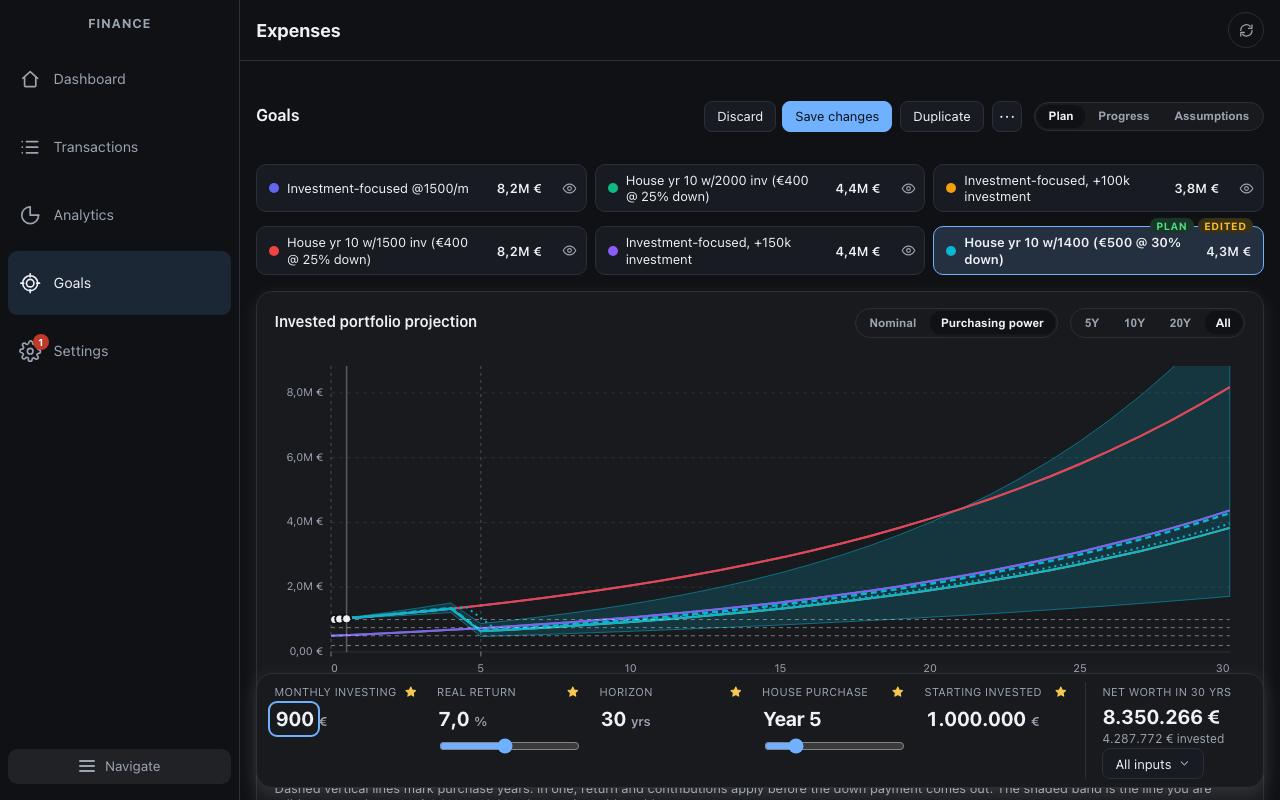
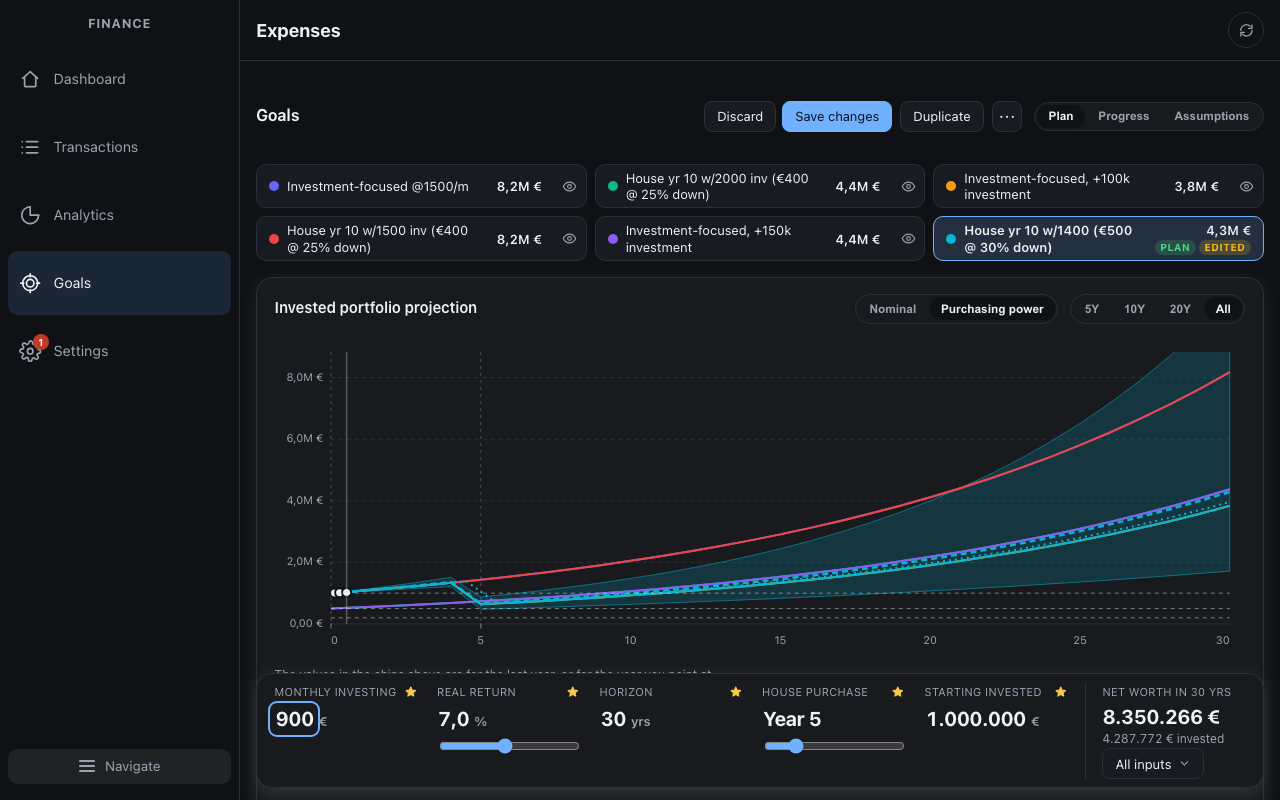
Update the Goals browser script, docs and screenshots for the chip tags and breakdown slot
The script now checks the tags inside the chip and the breakdown under the chart. Screenshots are retaken with six long names, and a purchase-year pair is added.

diff --git a/docs/TESTING.md b/docs/TESTING.md
@@ -55,7 +55,7 @@ jsdom lays nothing out, so the unit tests for the Goals phone navigation and the
 | --- | --- |
 | `npm run verify:goals-tabs` | The secondary chart picker on Goals' Chart view does not overlap at 390px. Serves on port 5173. |
 | `npm run verify:goals-nav` | The Goals phone navigation at 375x812 and 320x568, plus landscape and large text: the view row sticks under the header, the hero chart is above the bottom bar on first load, each Scenarios chip lands its section under the pinned stack, the marked chip follows the scroll and a tapped chip stays marked until the viewer scrolls, each view comes back where it was left (also after a link), the four labels are shown whole, Scenarios is not pinned on a short screen, and no control that Tab or Shift+Tab reaches is covered by the header, the row, the stack or the bottom bar. |
-| `npm run verify:goals-desktop` | The wide Goals Plan page from 1024px to 1920px, and with `ENGINES=chromium,webkit` in Safari's engine too: nothing in it scrolls on its own, it does not scroll sideways, the chart is wider than it was beside the side panel, every milestone column of the years-to-milestone table is in sight, the five levers and the result are on one row from 1250px, the bar is on screen on first load with the chart and its legend above it (held to the bottom edge from 1200px wide and 800px tall, and left in the page on a shorter screen so it cannot cover them), it sticks under the header with 3px of air once the page has scrolled past it and nothing is drawn over it, and Tab between its controls, or pressing a star, does not scroll the page, and the inputs panel opens clear of it by mouse or keyboard (and below 1200px wide goes by with the page instead), hovering the chart shows the values for a year, the scenario menu opens inside the window with focus in it and Escape gives focus back to its button, the inputs panel folds open in columns and back to the page's length, the stars take an input out of the bar and put another in (the bar is then full and the other stars are held back), have a tooltip, a 24px click area and sit on the middle of their label's first line, and Reset puts the five back without moving the columns under it, typing over a lever marks the scenario as edited and Discard undoes it, a slider moves the net worth, a saved line hidden from the legend while its scenario is edited is not left there dimmed after Discard, a session that goes read-only in the middle of an edit keeps the edit and shows the note under the scenario tabs on a line of its own, without an Edited mark and without the discard question offering to save, and no control that Tab reaches is under the bar or the header (columns are read one after the other). It also checks 899px has the phone layout and 900px the wide page, the light theme and 150% text, that the chart leaves vertical swipes to the page on a touch screen, and that Progress and Assumptions keep their narrower page. At 1200, 1280 and 1440 by 800 (and 1366x768, where the bar is left in the page) a click on a lever's figure or its unit, typing, filling, the sliders, Tab and a star pressed from the keyboard leave the page where it is, a 15-character net worth leaves the held bar one row high, and the legend stays clear of the bar throughout (`ONLY=lever-focus` runs just that group). The toast after a star takes an input out of the bar (and the other messages on the page) is in the side rail, covering neither the legend, the bar and its controls nor the rail's own links and menu button, at 1024x768, 1200x800, 1280x800, 1440x900, 1440x1024 and on three touch tablets (1032x1376, 1133x744, 1366x1024), its Undo is what a press at its centre reaches, it stays in the middle under 1024px, and on a phone it is above the bottom bar (`ONLY=toast` runs just that group). It also reads the years-to-milestone table (the editing draft is set low so cells are years away): in a card with no sideways scroll, the tint deeper the further with 4.5:1 text on it in both themes, hatching and the tick, a sentence per cell under the table that does not move the card, the row and column marked, calendar year, vs plan, the arrow keys, Home and End, forced colours (Chromium) and a phone at 375px and 320px. It also reads the timeline view of that card from 900px to 1440px: the switch is only on the wide page, the timeline fits its card, every dot is in its row, no label runs into another or into a badge, Tab goes row by row, following a milestone marks its dots and the dashed line goes through their centres, and the table comes back as it was. It also checks why Save is off for a scenario with no name (`ONLY=s2`): the button is `aria-disabled` and looks as off as a disabled one, with nothing written in the page for it; on a phone at 375x812 and 320x568 (touch) a tap on the pinned Save, the scenario card's Save changes and its Save as new shows one toast inside the screen, however many taps, and the pinned stack keeps its height at every moment from clearing the name to the last tap; on the wide page with a mouse the scenario row, its Save and Discard group and the page keep their boxes when the name is cleared, the button has the words as its tooltip and does not lift or press under the pointer, and a click, Enter and Space on it show the toast, as a click on the draft's Save scenario does; with a name typed Save saves. A native tooltip is drawn by the browser, not the page, so a headless run reads the `title` and cannot see it. Both are then read again with start dates that differ, which the demo never has (`ONLY=w2`, `ONLY=x2`): three milestones are named, one of them long, and the editing path is given a plan start date over a year back through the calendar, which must show its cells as years from today (its own step less the years it has run, rounded up), a figure under every cell of every row but the plan's (the difference of the cells shown, the plan from today included, the plan's own row no taller than without "vs plan"), the same width for every milestone column and every box at 1440, 1280 and 1024 wide, nothing overflowing on a phone at 375px and 320px, and on the timeline the axis starting at "now" with every line starting there and each dot where its cell says. It also presses a grid of points inside every control on the Plan page with the inputs panel open, with the bar full and with room in it, on three touch tablets (1032x1376, 1133x744, 1366x1024) and with a mouse (1032x1376, 1133x744): none may land on a star, every star keeps a tap area (at least 23px wide and 43px high in the panel on a touch screen, and the bar's stars their full one), and a percentage stepper's + button ends inside its column, where the next column's star hangs (`ONLY=k2` runs just that group; `FONT=Verdana ONLY=k2` repeats it in a wider font, which is what CI's Linux fonts are against a Mac's). The two Assumptions fields that read typed numbers are read too (`ONLY=settings-numbers`): the milestone amount is a text field written as the currency writes it, "150.000" in euros is a hundred and fifty thousand and not 150, text with no digit puts the amount back, and "1e1" is not ten months of cash reserve. On a phone at 375px, 320px and 430px with twelve milestones (set in Assumptions) it reads the years-to-milestone table's pages (`ONLY=milestone-phone`): a page holds 4, 3 and 4 columns, none under 46px or different in width from the others, the names take 38% of the table and none is cut, no figure is wider than its box (a calendar year included), the pages together hold each milestone once and their chips fit the screen, nothing scrolls sideways; by goal has a row per path with its whole name, 44px previous and next buttons, and the chip of the milestone it stepped to in view; and a list of three or one milestones is one page with no chips. The sheet with every milestone is read too (`ONLY=milestone-sheet`), upright at 375x812 and on its side at 667x375 with twelve milestones none of which is folded: it covers the screen, has a column for each milestone with the currency sign, scrolls in itself and not the page, holds the names while the columns scroll and the heads while the rows do (667x250), has a 44px close button, shares the card's calendar year and plan toggles, and held upright is turned a quarter turn (laid out as wide as the screen is tall) with the line that says which way to turn the phone, where on its side it is not and a tap on a cell reads its sentence in both; Close and Escape close it, with the focus back on the button when it was opened from the keyboard. The hero chart full screen on a phone is read too (`ONLY=hero-sheet`), upright at 375x812 and on its side at 812x375, and with no button on a tablet or a laptop: the card's title and button share a line and the button is 44px, the sheet covers the screen and, held upright, is turned a quarter turn, the rail beside the chart is 168 to 192px wide and does not overflow, a year gets at least 12px across (it logs how many), a tap along the chart, which runs down the screen when it is turned, picks the year it is on (the proof that the pointer is read from the right axis in each engine), a row of the rail can be tapped without losing the year, the window buttons in the bar change the card too, and Escape closes it with the focus back on the button. Its readout floated over the chart and dragged is read too (`ONLY=hero-sheet-float`), in the same two positions: floating takes the rail away and the chart is drawn at its box's width in every frame that is painted (a resize observer made after the chart's reads what is drawn, which fails without the synchronous commit), the card starts in the lower corner of the chart and takes the focus, a drag run in the page a frame at a time keeps it under the pointer to the pixel until it meets an edge and never outside the chart, adds and removes no nodes while held and logs the page's frame times, dragged past each corner it is inside the chart, an arrow key moves it a step, a screen that changes size keeps it inside, and its cross puts the rail back with the focus on the control that floats it. The card is shown whole: at a purchase year it is wider for the breakdown beside the rows and no taller, it is exactly as large as its content at the scale it is drawn at, its corner makes it smaller and then larger but never past 90% of the chart (dragged in the chart's own frame, so also when it is turned), and a card holding seven scenarios' rows is still held under two thirds of the chart's height and moves on both axes. The scenario chips above the chart are one width and as tall as their row, show each line's value at the year pointed at, hide a line from their eye, put Plan on the open chip's top edge clear of its name, and are 44px (the eye too) with a finger; Duplicate is in the title row with "Goals", and the first edit moves neither the chips nor the page. |
+| `npm run verify:goals-desktop` | The wide Goals Plan page from 1024px to 1920px, and with `ENGINES=chromium,webkit` in Safari's engine too: nothing in it scrolls on its own, it does not scroll sideways, the chart is wider than it was beside the side panel, every milestone column of the years-to-milestone table is in sight, the five levers and the result are on one row from 1250px, the bar is on screen on first load with the chart and its legend above it (held to the bottom edge from 1200px wide and 800px tall, and left in the page on a shorter screen so it cannot cover them), it sticks under the header with 3px of air once the page has scrolled past it and nothing is drawn over it, and Tab between its controls, or pressing a star, does not scroll the page, and the inputs panel opens clear of it by mouse or keyboard (and below 1200px wide goes by with the page instead), hovering the chart shows the values for a year, the scenario menu opens inside the window with focus in it and Escape gives focus back to its button, the inputs panel folds open in columns and back to the page's length, the stars take an input out of the bar and put another in (the bar is then full and the other stars are held back), have a tooltip, a 24px click area and sit on the middle of their label's first line, and Reset puts the five back without moving the columns under it, typing over a lever marks the scenario as edited and Discard undoes it, a slider moves the net worth, a saved line hidden from the legend while its scenario is edited is not left there dimmed after Discard, a session that goes read-only in the middle of an edit keeps the edit and shows the note under the scenario tabs on a line of its own, without an Edited mark and without the discard question offering to save, and no control that Tab reaches is under the bar or the header (columns are read one after the other). It also checks 899px has the phone layout and 900px the wide page, the light theme and 150% text, that the chart leaves vertical swipes to the page on a touch screen, and that Progress and Assumptions keep their narrower page. At 1200, 1280 and 1440 by 800 (and 1366x768, where the bar is left in the page) a click on a lever's figure or its unit, typing, filling, the sliders, Tab and a star pressed from the keyboard leave the page where it is, a 15-character net worth leaves the held bar one row high, and the legend stays clear of the bar throughout (`ONLY=lever-focus` runs just that group). The toast after a star takes an input out of the bar (and the other messages on the page) is in the side rail, covering neither the legend, the bar and its controls nor the rail's own links and menu button, at 1024x768, 1200x800, 1280x800, 1440x900, 1440x1024 and on three touch tablets (1032x1376, 1133x744, 1366x1024), its Undo is what a press at its centre reaches, it stays in the middle under 1024px, and on a phone it is above the bottom bar (`ONLY=toast` runs just that group). It also reads the years-to-milestone table (the editing draft is set low so cells are years away): in a card with no sideways scroll, the tint deeper the further with 4.5:1 text on it in both themes, hatching and the tick, a sentence per cell under the table that does not move the card, the row and column marked, calendar year, vs plan, the arrow keys, Home and End, forced colours (Chromium) and a phone at 375px and 320px. It also reads the timeline view of that card from 900px to 1440px: the switch is only on the wide page, the timeline fits its card, every dot is in its row, no label runs into another or into a badge, Tab goes row by row, following a milestone marks its dots and the dashed line goes through their centres, and the table comes back as it was. It also checks why Save is off for a scenario with no name (`ONLY=s2`): the button is `aria-disabled` and looks as off as a disabled one, with nothing written in the page for it; on a phone at 375x812 and 320x568 (touch) a tap on the pinned Save, the scenario card's Save changes and its Save as new shows one toast inside the screen, however many taps, and the pinned stack keeps its height at every moment from clearing the name to the last tap; on the wide page with a mouse the scenario row, its Save and Discard group and the page keep their boxes when the name is cleared, the button has the words as its tooltip and does not lift or press under the pointer, and a click, Enter and Space on it show the toast, as a click on the draft's Save scenario does; with a name typed Save saves. A native tooltip is drawn by the browser, not the page, so a headless run reads the `title` and cannot see it. Both are then read again with start dates that differ, which the demo never has (`ONLY=w2`, `ONLY=x2`): three milestones are named, one of them long, and the editing path is given a plan start date over a year back through the calendar, which must show its cells as years from today (its own step less the years it has run, rounded up), a figure under every cell of every row but the plan's (the difference of the cells shown, the plan from today included, the plan's own row no taller than without "vs plan"), the same width for every milestone column and every box at 1440, 1280 and 1024 wide, nothing overflowing on a phone at 375px and 320px, and on the timeline the axis starting at "now" with every line starting there and each dot where its cell says. It also presses a grid of points inside every control on the Plan page with the inputs panel open, with the bar full and with room in it, on three touch tablets (1032x1376, 1133x744, 1366x1024) and with a mouse (1032x1376, 1133x744): none may land on a star, every star keeps a tap area (at least 23px wide and 43px high in the panel on a touch screen, and the bar's stars their full one), and a percentage stepper's + button ends inside its column, where the next column's star hangs (`ONLY=k2` runs just that group; `FONT=Verdana ONLY=k2` repeats it in a wider font, which is what CI's Linux fonts are against a Mac's). The two Assumptions fields that read typed numbers are read too (`ONLY=settings-numbers`): the milestone amount is a text field written as the currency writes it, "150.000" in euros is a hundred and fifty thousand and not 150, text with no digit puts the amount back, and "1e1" is not ten months of cash reserve. On a phone at 375px, 320px and 430px with twelve milestones (set in Assumptions) it reads the years-to-milestone table's pages (`ONLY=milestone-phone`): a page holds 4, 3 and 4 columns, none under 46px or different in width from the others, the names take 38% of the table and none is cut, no figure is wider than its box (a calendar year included), the pages together hold each milestone once and their chips fit the screen, nothing scrolls sideways; by goal has a row per path with its whole name, 44px previous and next buttons, and the chip of the milestone it stepped to in view; and a list of three or one milestones is one page with no chips. The sheet with every milestone is read too (`ONLY=milestone-sheet`), upright at 375x812 and on its side at 667x375 with twelve milestones none of which is folded: it covers the screen, has a column for each milestone with the currency sign, scrolls in itself and not the page, holds the names while the columns scroll and the heads while the rows do (667x250), has a 44px close button, shares the card's calendar year and plan toggles, and held upright is turned a quarter turn (laid out as wide as the screen is tall) with the line that says which way to turn the phone, where on its side it is not and a tap on a cell reads its sentence in both; Close and Escape close it, with the focus back on the button when it was opened from the keyboard. The hero chart full screen on a phone is read too (`ONLY=hero-sheet`), upright at 375x812 and on its side at 812x375, and with no button on a tablet or a laptop: the card's title and button share a line and the button is 44px, the sheet covers the screen and, held upright, is turned a quarter turn, the rail beside the chart is 168 to 192px wide and does not overflow, a year gets at least 12px across (it logs how many), a tap along the chart, which runs down the screen when it is turned, picks the year it is on (the proof that the pointer is read from the right axis in each engine), a row of the rail can be tapped without losing the year, the window buttons in the bar change the card too, and Escape closes it with the focus back on the button. Its readout floated over the chart and dragged is read too (`ONLY=hero-sheet-float`), in the same two positions: floating takes the rail away and the chart is drawn at its box's width in every frame that is painted (a resize observer made after the chart's reads what is drawn, which fails without the synchronous commit), the card starts in the lower corner of the chart and takes the focus, a drag run in the page a frame at a time keeps it under the pointer to the pixel until it meets an edge and never outside the chart, adds and removes no nodes while held and logs the page's frame times, dragged past each corner it is inside the chart, an arrow key moves it a step, a screen that changes size keeps it inside, and its cross puts the rail back with the focus on the control that floats it. The card is shown whole: at a purchase year it is wider for the breakdown beside the rows and no taller, it is exactly as large as its content at the scale it is drawn at, its corner makes it smaller and then larger but never past 90% of the chart (dragged in the chart's own frame, so also when it is turned), and a card holding seven scenarios' rows is still held under two thirds of the chart's height and moves on both axes. The scenario chips above the chart are one width and as tall as their row, show each line's value at the year pointed at, hide a line from their eye, put Plan inside the open chip, under its value and clear of its name, and are 44px (the eye too) with a finger; the purchase breakdown is under the chart, not over it, and pointing at a purchase year moves the page by no more than a pixel; Duplicate is in the title row with "Goals", and the first edit moves neither the chips nor the page. |
 | `npm run verify:section-tabs` | The Analytics and Settings section tabs at 375x812 and 320x568: the bar sticks under the header at 44px (36px on a desktop with a mouse) with a fade beneath it, a section tapped from down the page lands its content flush under the bar, comes back where it was left, and the four labels ("Preferences" included) are shown whole with no sideways scroll; and no control that Tab or Shift+Tab reaches is covered by the header, a section bar, the Transactions bar or a day heading, or the bottom bar, on the dashboard, Transactions, Analytics and Settings at 375x812 and 1100x800. |
 
 `verify:goals-desktop` is run the same way (`CAPTURE_PORT=5490 npm run verify:goals-desktop`, a few minutes, `ENGINES=chromium,webkit` for both engines) after changing `src/ui/tabs/goals/desktop/`, the scroll padding the levers bar sets, or the Goals page width in the app shell. CI runs it too (`.github/workflows/verify-goals-browser.yml`: Chromium on Linux and WebKit on macOS, since the Linux build of WebKit does not scroll or focus like Safari's; about ten minutes each, one retry) on a PR that touches `src/ui`, `src/domain` or `src/data`, and on main after a merge, since two PRs that pass it alone can break it together. It is a separate check from Verify and is not required by branch protection yet.

diff --git a/docs/CHANGELOG.md b/docs/CHANGELOG.md
@@ -6,7 +6,8 @@ High-signal UX and reliability changes on `main`. Internal refactors omitted unl
 
 Checked in Chromium and in Safari's engine, at 1280x800 and wider, and on an iPad.
 
-- **One set of chips above the chart replaces the scenario tabs and the chart's legend.** Each chip has the scenario's colour, its whole name (on two lines where it needs them), its value in the year you point at (the last year when you are not pointing), and an eye to hide its line. All chips are one width and wrap to more rows, so a long name never cuts another chip or overlaps it. Plan and Edited sit on the chip's top edge instead of using up its width. The line under the chart keeps the year, the purchase breakdown and the plan-from-today key.
+- **One set of chips above the chart replaces the scenario tabs and the chart's legend.** Each chip has the scenario's colour, its whole name (on two lines where it needs them), its value in the year you point at (the last year when you are not pointing), and an eye to hide its line. All chips are one width and wrap to more rows, so a long name never cuts another chip or overlaps it. Plan and Edited sit inside the open chip, under its value, so the name keeps its width. The line under the chart keeps the year and the plan-from-today key.
+- **The purchase breakdown has a place under the chart.** It floated over the bottom of the chart and hid the axis labels and part of the lines. It now takes the place of the note about the dashed lines while you point at a purchase year, in room that is kept whenever a line has a purchase, so nothing is covered and nothing moves. The chart is 316px tall on a wide screen, down from 330, to make room for the taller open chip.
 - **Duplicate, the options menu and Save / Discard are in the title row**, beside the Plan | Progress | Assumptions switch, so editing a scenario no longer changes what is above the chart.
 
 ## October 2026 (the projection, full screen)
